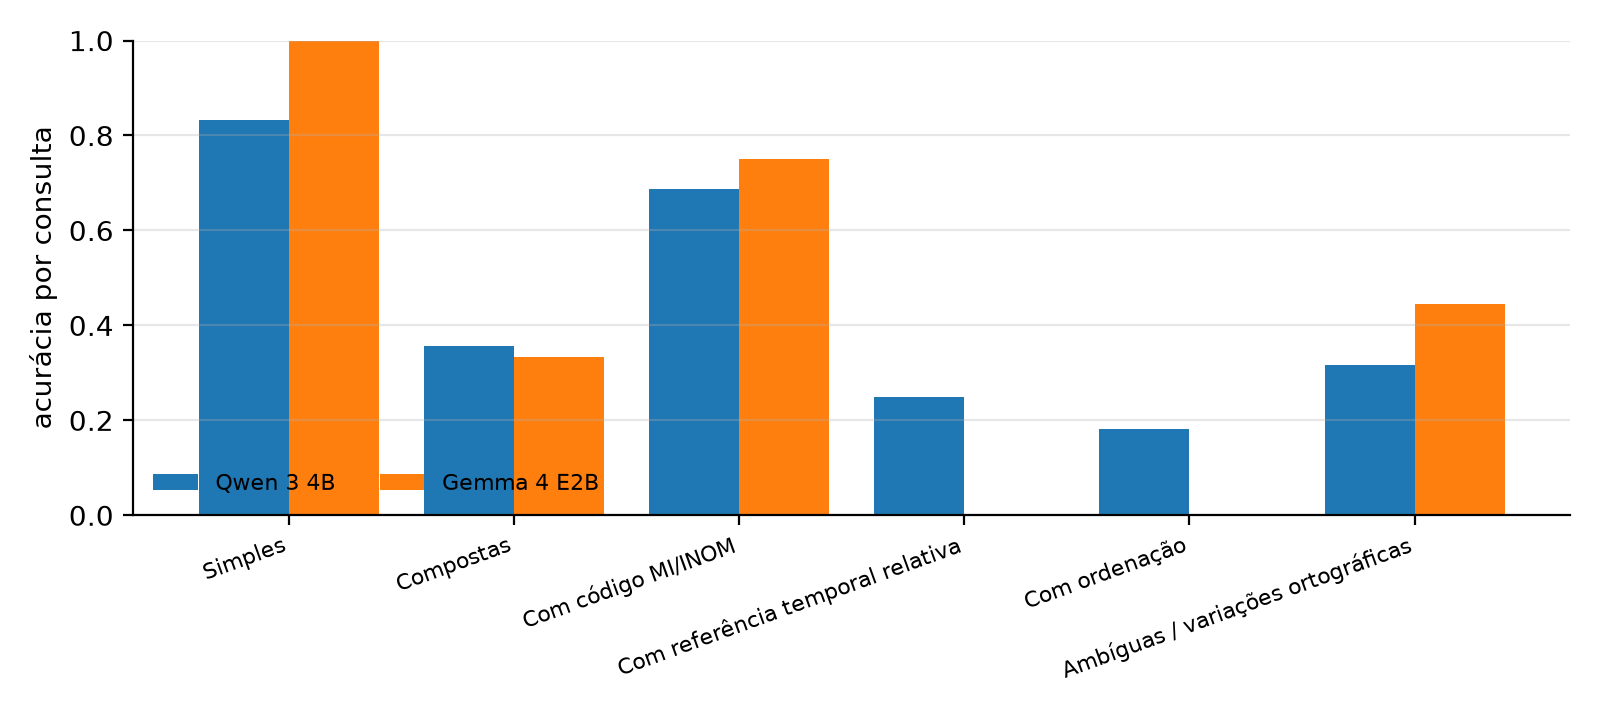
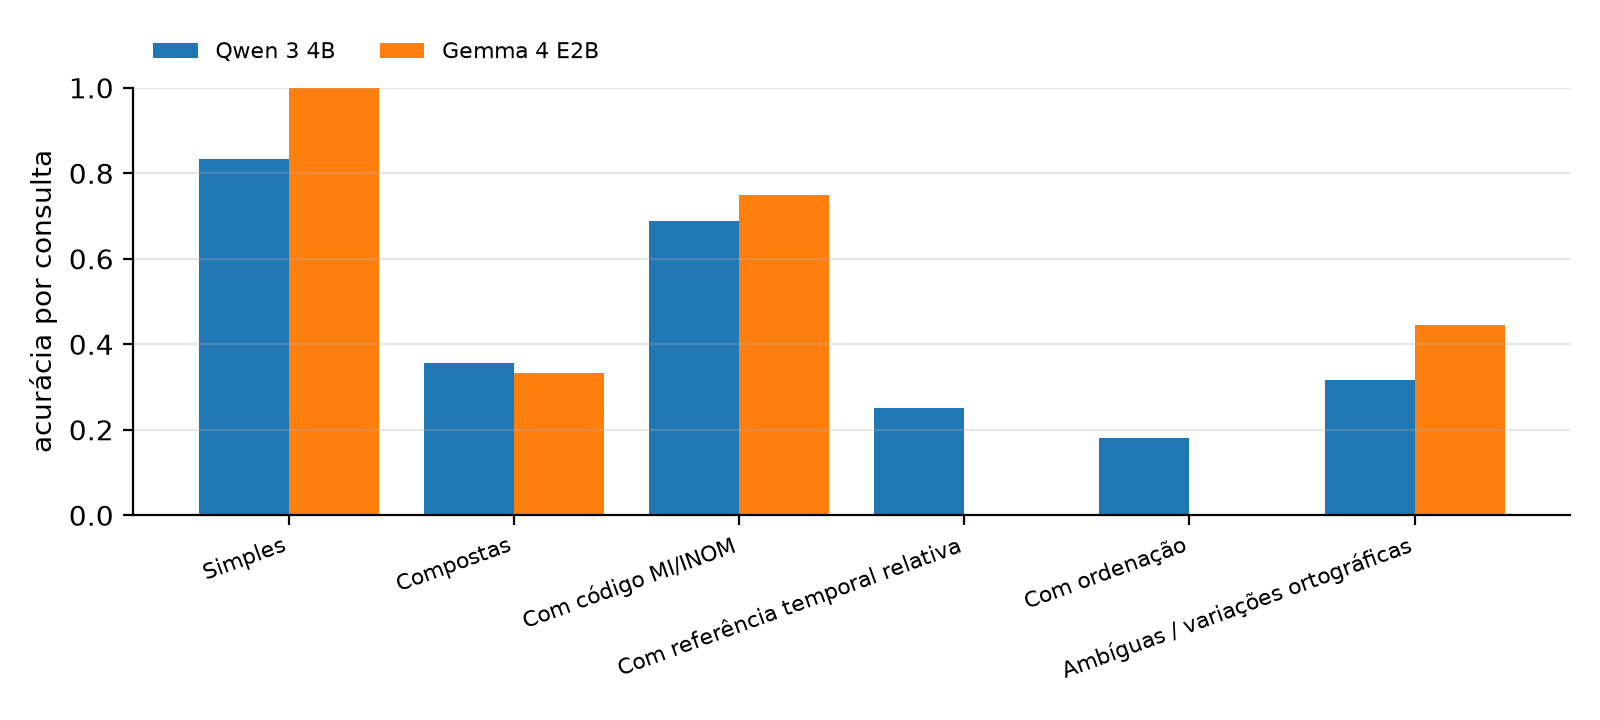
Figuras: legenda acima do gráfico

diff --git a/src/pfc_busca/evaluation/report.py b/src/pfc_busca/evaluation/report.py
@@ -242,7 +242,7 @@ def figuras(dados: dict[str, dict], saida: Path) -> list[str]:
     ax.set_xticklabels(schema.CAMPOS, rotation=35, ha="right")
     ax.set_ylim(0, 1.0)
     ax.set_ylabel("F1 por campo")
-    ax.legend(frameon=False, ncol=len(modelos), fontsize=8, loc="lower left")
+    ax.legend(frameon=False, ncol=len(modelos), fontsize=8, loc="lower left", bbox_to_anchor=(0.0, 1.01))
     ax.grid(axis="y", alpha=0.3)
     fig.tight_layout()
     for ext in ("pdf", "png"):
@@ -260,7 +260,7 @@ def figuras(dados: dict[str, dict], saida: Path) -> list[str]:
     ax.set_xticklabels([NOMES_CATEGORIA[c] for c in cats], rotation=20, ha="right", fontsize=8)
     ax.set_ylim(0, 1.0)
     ax.set_ylabel("acurácia por consulta")
-    ax.legend(frameon=False, ncol=len(modelos), fontsize=8, loc="lower left")
+    ax.legend(frameon=False, ncol=len(modelos), fontsize=8, loc="lower left", bbox_to_anchor=(0.0, 1.01))
     ax.grid(axis="y", alpha=0.3)
     fig.tight_layout()
     for ext in ("pdf", "png"):
